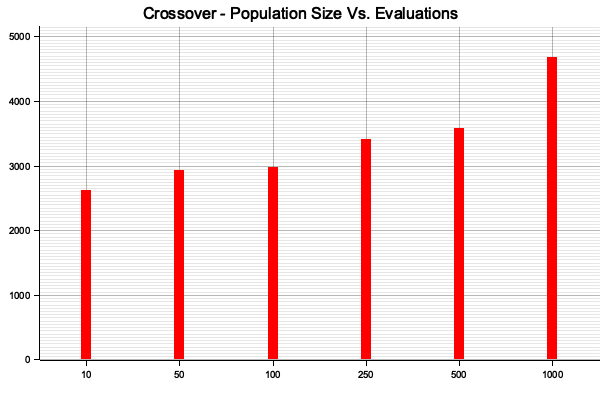
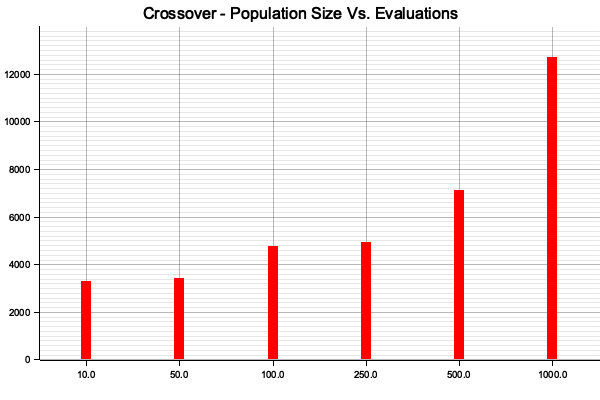
Bug fix and revised algorithm

diff --git a/src/main.rs b/src/main.rs
@@ -2,14 +2,16 @@
 #![allow(unused_variables)]
 
 use std::{collections::HashMap, time::{Duration, Instant}};
-use itertools::Itertools;
 use rand::{seq::SliceRandom, Rng};
+
+use plotters::prelude::*;
 
 mod plotting;
 
 const TARGET: &str = "methinks it is like a weasel";
 const VALID_CHARS: &str = "abcdefghijklmnopqrstuvwxyz ";
 const DEBUG: bool = true;
+const REPEATS: usize = 10;
 
 #[derive(Debug)]
 struct Config {
@@ -31,9 +33,9 @@ impl Config {
 impl Default for Config {
     fn default() -> Self {
         Config {
-            population_size: 100,
+            population_size: 500,
             mutation_rate: 1.0 / (TARGET.len() as f64),
-            tournament_size: 10,
+            tournament_size: 2,
         }
     }
 }
@@ -47,12 +49,11 @@ struct OutputData {
 
 fn main() {
 
-    let config = Config::new(500, 1.0 / (TARGET.len() as f64), 2);
-
-    let _ = ga_with_crossover(&config);
+    // let config = Config::new(500, 1.0 / (TARGET.len() as f64), 2);
+    // let _ = ga_with_crossover(&config);
 
     // question1();        
-    // question2();
+    question2();
 }
 
 fn question1() {
@@ -61,18 +62,16 @@ fn question1() {
 
     let crossover_y_data = x_data.clone().iter()
         .map(|&p| Config { population_size: p as usize, ..Default::default()})
-        .map(|config| ga_with_crossover(&config))
-        .map(|data| data.evaluations)
+        .map(|config| (0..REPEATS).map(|_| genetic_algorithm(true, &config).evaluations).sum::<usize>() / REPEATS)
         .collect::<Vec<_>>();
 
-    let tournament_y_data = x_data.clone().iter()
+    let no_crossover_y_data = x_data.clone().iter()
         .map(|&p| Config { population_size: p as usize, ..Default::default()})
-        .map(|config| ga_with_tournament_selection(&config))
-        .map(|data| data.evaluations)
+        .map(|config| (0..REPEATS).map(|_| genetic_algorithm(false, &config).evaluations).sum::<usize>() / REPEATS)
         .collect::<Vec<_>>();
 
-    plotting::plot_bar("Crossover - Population Size Vs. Evaluations", &x_data, &crossover_y_data);
-    plotting::plot_bar("No Crossover - Population Size Vs. Evaluations", &x_data, &tournament_y_data);
+    plot_bar!("Crossover - Population Size Vs. Evaluations", &x_data, &crossover_y_data);
+    plot_bar!("No Crossover - Population Size Vs. Evaluations", &x_data, &no_crossover_y_data);
 
     // It is clear that crossover reduces the number of evaluations needed
 
@@ -81,23 +80,21 @@ fn question1() {
 
 fn question2() {
     // varying mutation rate
-    let x_data = vec![0.1, 0.2, 0.5, 1.0, 2.0, 5.0];
+    let x_data = vec![0.01, 0.05, 0.1, 0.5, 1.0, 2.0];
 
     let crossover_y_data = x_data.clone().iter()
         .map(|&m| Config { mutation_rate: m / (TARGET.len() as f64), ..Default::default()})
-        .map(|config| ga_with_crossover(&config))
-        .map(|data| data.evaluations)
+        .map(|config| (0..REPEATS).map(|_| genetic_algorithm(true, &config).evaluations).sum::<usize>() / REPEATS)
         .collect::<Vec<_>>();
 
-    let tournament_y_data = x_data.clone().iter()
+    let no_crossover_y_data = x_data.clone().iter()
         .map(|&m| Config { mutation_rate: m / (TARGET.len() as f64), ..Default::default()})
-        .map(|config| ga_with_tournament_selection(&config))
-        .map(|data| data.evaluations)
+        .map(|config| (0..REPEATS).map(|_| genetic_algorithm(false, &config).evaluations).sum::<usize>() / REPEATS)
         .collect::<Vec<_>>();
     
 
-    plotting::plot_bar("Crossover - Mutation Rate Vs. Evaluations", &x_data, &crossover_y_data);
-    plotting::plot_bar("No Crossover - Mutation Rate Vs. Evaluations", &x_data, &tournament_y_data);
+    plot_bar!("Crossover - Mutation Rate Vs. Evaluations", &x_data, &crossover_y_data);
+    plot_bar!("No Crossover - Mutation Rate Vs. Evaluations", &x_data, &no_crossover_y_data);
 }
 
 fn generate_random_character() -> char {
@@ -163,52 +160,6 @@ fn mutation_hill_climber(config: &Config) -> OutputData {
     out 
 }
 
-fn ga_with_tournament_selection(config: &Config) -> OutputData {
-    let mut population = (0..config.population_size)
-        .map(|_| generate_random_string())
-        .collect::<Vec<String>>();
-
-    let mut fitness_evaluations: HashMap<String, usize> = HashMap::new();
-    let mut best_fitness = 0;
-    let mut iterations = 0;
-
-    let timer = Instant::now();
-
-    while best_fitness < TARGET.len() {
-        // randomly choose two individuals and select the best to be the parent
-        let parent = population.choose_multiple(&mut rand::thread_rng(), config.tournament_size)
-            .max_by_key(|&i| fitness_evaluations.entry(i.clone()).or_insert(fitness_score(i)).clone())
-            .unwrap();
-        
-        // mutate the parent to create the child
-        let child = generate_mutated(parent, config.mutation_rate);
-
-        // replace the worst individual from 2 random individuals
-        let worst = population.choose_multiple(&mut rand::thread_rng(), config.tournament_size)
-            .min_by_key(|&i| fitness_evaluations.entry(i.clone()).or_insert(fitness_score(i)).clone())
-            .unwrap();
-
-        // Would be nice to just change the value of worst, however, there is no choose_multiple_mut
-        let worst_index = population.iter().position(|i| i == worst).unwrap();
-        population[worst_index] = child;
-
-        iterations += 1;
-        best_fitness = *fitness_evaluations.values().clone().max().unwrap_or(&0);
-
-        if DEBUG && iterations % 1000 == 0 {
-            println!("Best fitness {} after {} evaluations", best_fitness, fitness_evaluations.len());
-        }
-    }   
-
-    let out = OutputData {
-        iterations,
-        evaluations: fitness_evaluations.len(),
-        time: timer.elapsed()
-    };
-    if DEBUG { println!("{:?}", out); }
-    out
-}
-
 fn generate_crossover(a: &str, b: &str) -> String {
     a.chars()
         .zip(b.chars())
@@ -216,7 +167,7 @@ fn generate_crossover(a: &str, b: &str) -> String {
         .collect()
 }
 
-fn ga_with_crossover(config: &Config) -> OutputData {
+fn genetic_algorithm(crossover: bool, config: &Config) -> OutputData {
     println!("Running crossover with {:?}", config);
     let mut population = (0..config.population_size)
         .map(|_| generate_random_string())
@@ -230,17 +181,27 @@ fn ga_with_crossover(config: &Config) -> OutputData {
 
     while best_fitness < TARGET.len() // && iterations < 20
     {
-        // randomly choose two individuals and select the best to be the parent
-        let parent_a = population.choose_multiple(&mut rand::thread_rng(), config.tournament_size)
-            .max_by_key(|&i| fitness_evaluations.entry(i.clone()).or_insert(fitness_score(i)).clone())
-            .unwrap();
-        let parent_b = population.choose_multiple(&mut rand::thread_rng(), config.tournament_size)
-            .max_by_key(|&i| fitness_evaluations.entry(i.clone()).or_insert(fitness_score(i)).clone())
-            .unwrap();
-        
-        // crossover the parents to create the child
-        let mut child = generate_crossover(parent_a, parent_b);
-        child = generate_mutated(&child, config.mutation_rate);
+        let child = if crossover {
+            // randomly choose two individuals and select the best to be the parent
+            let parent_a = population.choose_multiple(&mut rand::thread_rng(), config.tournament_size)
+                .max_by_key(|&i| fitness_evaluations.entry(i.clone()).or_insert(fitness_score(i)).clone())
+                .unwrap();
+            let parent_b = population.choose_multiple(&mut rand::thread_rng(), config.tournament_size)
+                .max_by_key(|&i| fitness_evaluations.entry(i.clone()).or_insert(fitness_score(i)).clone())
+                .unwrap();
+            
+            // crossover the parents to create the child and mutate
+            let child = generate_crossover(parent_a, parent_b);
+            generate_mutated(&child, config.mutation_rate)
+        } else {
+            // randomly choose two individuals and select the best to be the parent
+            let parent = population.choose_multiple(&mut rand::thread_rng(), config.tournament_size)
+                .max_by_key(|&i| fitness_evaluations.entry(i.clone()).or_insert(fitness_score(i)).clone())
+                .unwrap();
+
+            // mutate the parent to create the child
+            generate_mutated(parent, config.mutation_rate)
+        };
 
         // replace the worst individual from 2 random individuals
         let worst = population.choose_multiple(&mut rand::thread_rng(), config.tournament_size)

diff --git a/src/plotting.rs b/src/plotting.rs
@@ -1,27 +1,26 @@
-use plotters::prelude::*;
+#[macro_export]
+macro_rules! plot_bar {
+    ($title:expr, $x_data:expr, $y_data:expr) => {
+        let output_dir = format!("out/{}.png", $title.chars().map(|c| if c.is_alphanumeric() { c } else { '_' }).collect::<String>());
+        let root_area = BitMapBackend::new(&output_dir, (600, 400)).into_drawing_area();
+        root_area.fill(&WHITE).unwrap();
 
+        let max_y = *$y_data.iter().max().expect("Y data should have at least one value");
+        let mut ctx = ChartBuilder::on(&root_area)
+            .set_label_area_size(LabelAreaPosition::Left, 40)
+            .set_label_area_size(LabelAreaPosition::Bottom, 40)
+            .caption($title, ("sans-serif", 20))
+            .build_cartesian_2d($x_data.into_segmented(), 0..(max_y + (max_y / 10)))
+            .unwrap();
 
-// Data is usize as data should always be positive for our simualtions
-pub fn plot_bar(title: &str, x_data: &[f64], y_data: &[usize]) {
-    let output_dir = format!("out/{}.png", title.chars().map(|c| if c.is_alphanumeric() { c } else { '_' }).collect::<String>());
-    let root_area = BitMapBackend::new(&output_dir, (600, 400)).into_drawing_area();
-    root_area.fill(&WHITE).unwrap();
+        ctx.configure_mesh().draw().unwrap();
 
-    let max_y = *y_data.iter().max().expect("Y data should have at least one value");
-    let mut ctx = ChartBuilder::on(&root_area)
-        .set_label_area_size(LabelAreaPosition::Left, 40)
-        .set_label_area_size(LabelAreaPosition::Bottom, 40)
-        .caption(title, ("sans-serif", 20))
-        .build_cartesian_2d(x_data.into_segmented(), 0..(max_y + (max_y / 10)))
-        .unwrap();
-
-    ctx.configure_mesh().draw().unwrap();
-
-    ctx.draw_series(x_data.iter().zip(y_data.iter()).map(|(x, y)| {
-        let x0 = SegmentValue::CenterOf(x);
-        let x1 = SegmentValue::CenterOf(x);
-        let mut bar = Rectangle::new([(x0, 0), (x1, *y)], RED.filled());
-        bar.set_margin(0, 0, 5, 5);
-        bar
-    })).unwrap();
+        ctx.draw_series($x_data.iter().zip($y_data.iter()).map(|(x, y)| {
+            let x0 = SegmentValue::CenterOf(x);
+            let x1 = SegmentValue::CenterOf(x);
+            let mut bar = Rectangle::new([(x0, 0), (x1, *y)], RED.filled());
+            bar.set_margin(0, 0, 5, 5);
+            bar
+        })).unwrap();
+    };
 }
